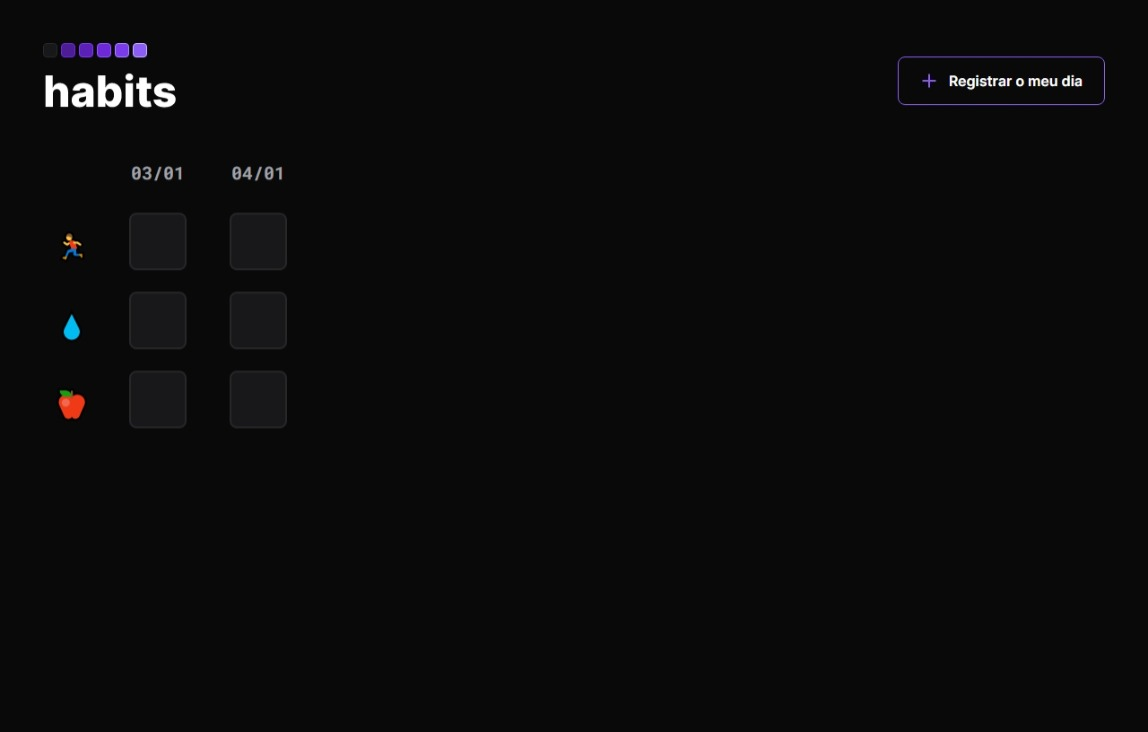
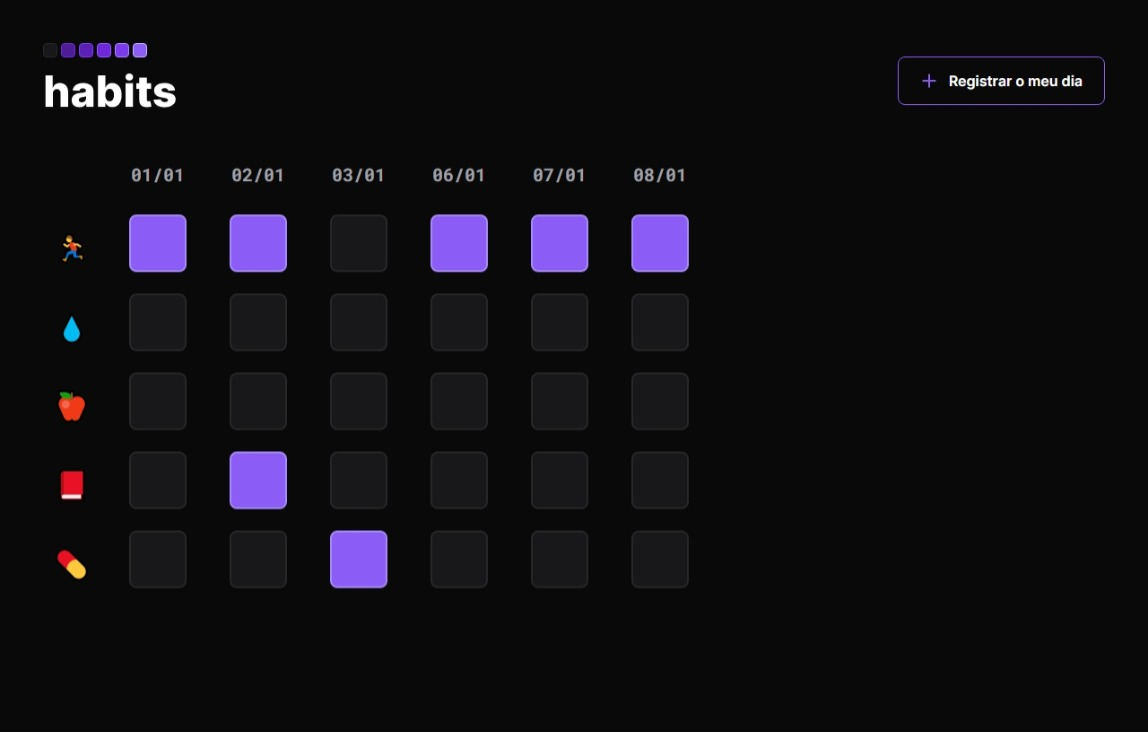
aula 003

diff --git a/js/NLWSetup.js b/js/NLWSetup.js
@@ -1,0 +1,255 @@
+/**
+ * @classdesc This class will be used in NLW #11 Setup and will help students
+ * to create the event's project by simplifying several JS concepts.
+ */
+var NLWSetup = class NLWSetup {
+  /** 
+   * Object that contains the data composed by
+   * 
+   * **key**: The habit name as the `data-name` of the `.habit` container
+   * **value**: `Array` of days to be checked as done
+   * **day**: Each day must be like the format `MM-DD` _MM: month, DD: day_
+   * 
+   * 
+   * ```js
+   *  { run: ['01-01', '01-02', '01-06'] }
+   * ```
+   * @private
+   */
+  data = {}
+
+  /**
+   * Array of habits
+   * camelCase: `run, eatFood`
+   * @private
+   */
+  habits = []
+
+  /**
+   * `new Set()` of days to build the display of habits by days
+   * @private
+   */
+  days = new Set()
+
+  /**
+   * You must build the `HTML` structure like this
+   * 
+   * ```html
+   * <form>
+   *   <div class="habits">
+   *     <div class="habit" data-name="run">🏃🏽♂</div>
+   *     <div class="habit" data-name="water">💧</div>
+   *     <div class="habit" data-name="food">🍎</div>
+   *   </div>
+   * 
+   *   <div class="days"></div>
+   * </form>
+   * ```
+   * 
+   * Example of usage
+   * 
+   * ```js
+   * const form = document.querySelector('form')
+   * const nlwSetup = new NLWSetup(form)
+   * ```
+   * 
+   * @param {HTMLFormElement} form
+   * 
+   */
+  constructor(form) {
+    this.form = form
+    this.daysContainer = this.form.querySelector(".days")
+    this.form.addEventListener("change", () => this.#update())
+    this.createHabits()
+    this.load()
+  }
+
+  /**
+   * It will load the internal [data](#data) and [render the layout](#renderLayout)
+   * 
+   */
+  load() {
+    const hasData = Object.keys(this.data).length > 0
+    if (!hasData) return
+
+    this.#registerDays()
+    this.renderLayout()
+  }
+
+  #registerDays() {
+    Object.keys(this.data).forEach((key) => {
+      this.data[key].forEach((date) => {
+        this.days.add(date)
+      })
+    })
+  }
+
+  /**
+   * Will render the layout by checking the registered days of the habits data
+   * Each day that was included in the habits data, will be checked in the input layout
+   * 
+   * The `<div class="days"></div>` container will be filled with html, 
+   * repeating the .day container for every day registered
+   * 
+   * example 
+   ```html
+    <div class="day">
+        <div>01/01</div>
+        <input type="checkbox" name="run" value="01/01"/>
+        <input type="checkbox" name="water" value="01/01"/>
+        <input type="checkbox" name="food" value="01/01"/>
+    </div>
+   ```
+   *
+   */
+  renderLayout() {
+    this.daysContainer.innerHTML = ""
+    for (let date of this.#getSortedDays()) {
+      const [month, day] = date.split("-")
+      this.#createDayElement(day + "/" + month)
+    }
+  }
+
+  createHabits() {
+    this.form
+      .querySelectorAll(".habit")
+      .forEach((habit) => this.#addHabit(habit.dataset.name))
+  }
+
+  /**
+   * @param {string} habit
+   * camelCase: `run, eatFood`
+   * @return {NLWHabits} this
+   */
+  #addHabit(habit) {
+    this.habits = [...this.habits, habit]
+    return this
+  }
+
+  /**
+   * @param {string} date `DD/MM`
+   * - `DD` day with 2 digits (01-31)
+   * - `MM` month with 2 digits (01-12)
+   
+   * @return {string} `MM-DD`
+   */
+  #getFormattedDate(date) {
+    const [day, month] = date.split("/")
+    return month + "-" + day
+  }
+
+  /**
+   * Get form input values by input name,
+   * and format an object:
+   * - ` { inputName: ["value1", "valueN", ...]} `
+   *
+   * Add the object to this.data
+   */
+  #update() {
+    const formData = new FormData(this.form)
+    const prepareData = {}
+    for (let habit of this.habits) {
+      prepareData[habit] = formData.getAll(habit)
+    }
+
+    this.setData(prepareData)
+  }
+
+  /**
+   * The data to build the habits table
+   *
+   * Example of usage
+   * 
+   * ```js
+   * const data = { 
+   *   run: ['01-01', '01-02', '01-06'], 
+   *   water: ['01-04', '01-05'],
+   *   food: ['01-01', '01-03'],
+   * }
+   * 
+   * nlwSetup.setData(data)
+   * ```
+   * 
+   * @param {object} data Object that contains the data composed by
+   * 
+   * - key: The habit name as the `data-name` of the `.habit` container
+   * - value: `Array` of days to be checked as done
+   * 
+   * _Each day must be like the format `MM-DD` 
+   * where `MM`: is the month and `DD`: is the day_
+   * 
+   * ```js
+   *  { run: ['01-01', '01-02', '01-06'] }
+   * ```
+   */
+  setData(data) {
+    if (!data) {
+      throw "Object data is needed { habitName: [...days: string]"
+    }
+    this.data = data
+  }
+
+  #getSortedDays() {
+    return [...this.days].sort()
+  }
+
+  /**
+   * Check if day already exists in the set of days
+   * 
+   * example of usage
+   * ```js
+   * nlwSetup.dayExists('31/12') // true or false
+   * ```
+   * 
+   * @param {string} date `DD/MM`
+   * - `DD` day with 2 digits (01-31)
+   * - `MM` month with 2 digits (01-12)
+   *
+   * @return {boolean}
+   */
+  dayExists(date) {
+    const formattedDate = this.#getFormattedDate(date)
+    return [...this.days].includes(formattedDate)
+  }
+  /**
+   * Add a day to registered days and render the layout after that
+   * 
+   * example of usage
+   * ```
+   * nlwSetup.addDay('31/12')
+   * ```
+   * @param {string} date `DD/MM`
+   * - `DD` day with 2 digits (01-31)
+   * - `MM` month with 2 digits (01-12)
+   */
+  addDay(date) {
+    if (!date || !date?.includes("/")) return
+    if (this.dayExists(date)) return
+    this.days.add(this.#getFormattedDate(date))
+    this.renderLayout()
+  }
+
+  /**
+   * @param {string} date `DD/MM`
+   * - `DD` day with 2 digits (01-31)
+   * - `MM` month with 2 digits (01-12)
+   */
+  #createDayElement(date) {
+    const divDay = document.createElement("div")
+    divDay.setAttribute("class", "day")
+    divDay.innerHTML = `<div>${date}</div>` + this.createCheckboxes(date)
+    this.daysContainer.append(divDay)
+  }
+
+  createCheckboxes(date) {
+    const formattedDate = this.#getFormattedDate(date)
+    let checkboxes = ""
+    for (let habit of this.habits) {
+      checkboxes += `<input 
+        type="checkbox" name="${habit}" value="${formattedDate}" 
+        ${this.data[habit]?.includes(formattedDate) && "checked"}/>`
+    }
+
+    return checkboxes
+  }
+}

diff --git a/index.html b/index.html
@@ -18,33 +18,26 @@
 
         <button>
             <img src="./assets/plus.svg" alt="Icone sinal de mais roxo">
-            Registrar o meu dia
+            <div>
+                Registrar o meu dia
+            </div>
         </button>
     </header>
 
     <form id="form-habits">
         <div class="habits">
-            <div class="habit">🏃♂</div>
-            <div class="habit">💧</div>
-            <div class="habit">🍎</div>
+            <div class="habit" data-name="run">🏃♂</div>
+            <div class="habit" data-name="water">💧</div>
+            <div class="habit" data-name="food">🍎</div>
+            <div class="habit" data-name="journal">📕</div>
+            <div class="habit" data-name="takePills">💊</div>
         </div>
 
-        <div class="days">
-            <div class="day">
-                <div>03/01</div>
-                <input type="checkbox" name="run" />
-                <input type="checkbox" name="water" />
-                <input type="checkbox" name="food" />
-            </div>
-
-            <div class="day">
-                <div>04/01</div>
-                <input type="checkbox" name="run" />
-                <input type="checkbox" name="water" />
-                <input type="checkbox" name="food" />
-            </div>
-        </div>
+        <div class="days"></div>
     </form>
+
+    <script src="https://cdn.jsdelivr.net/gh/maykbrito/libs/NLWSetup/source/NLWSetup.js"></script>
+    <script src="./js/script.js"></script>
         
 </body>
 </html>

diff --git a/css/style.css b/css/style.css
@@ -17,6 +17,10 @@ header {
     justify-content: space-between;
 
     padding: 48px;
+
+    position: fixed;
+    width: 100%;
+    background-color: #09090A;
 }
 
 button {
@@ -38,7 +42,9 @@ button {
 
 #form-habits {
     display: flex;
-    padding: 0 48px;
+
+    padding: 182px 48px 48px;
+    width: fit-content; /* Encaixar o conteudo na largura */
 }
 
 .habits {
@@ -100,4 +106,10 @@ input {
 input:checked {
     background: #8B5CF6;
     border: 2px solid #A78BFA;
+}
+
+@media (max-width: 570px) {
+    button div {
+        display: none;
+    }
 }

diff --git a/js/script.js b/js/script.js
@@ -1,0 +1,11 @@
+const form = document.querySelector('#form-habits')
+const nlwSetup = new NLWSetup(form)
+
+const data = {
+  run: ['01-01', '01-02', '01-06', '01-07', '01-08'],
+  journal: ['01-02'],
+  takePills: ['01-03'],
+}
+
+nlwSetup.setData(data)
+nlwSetup.load()
